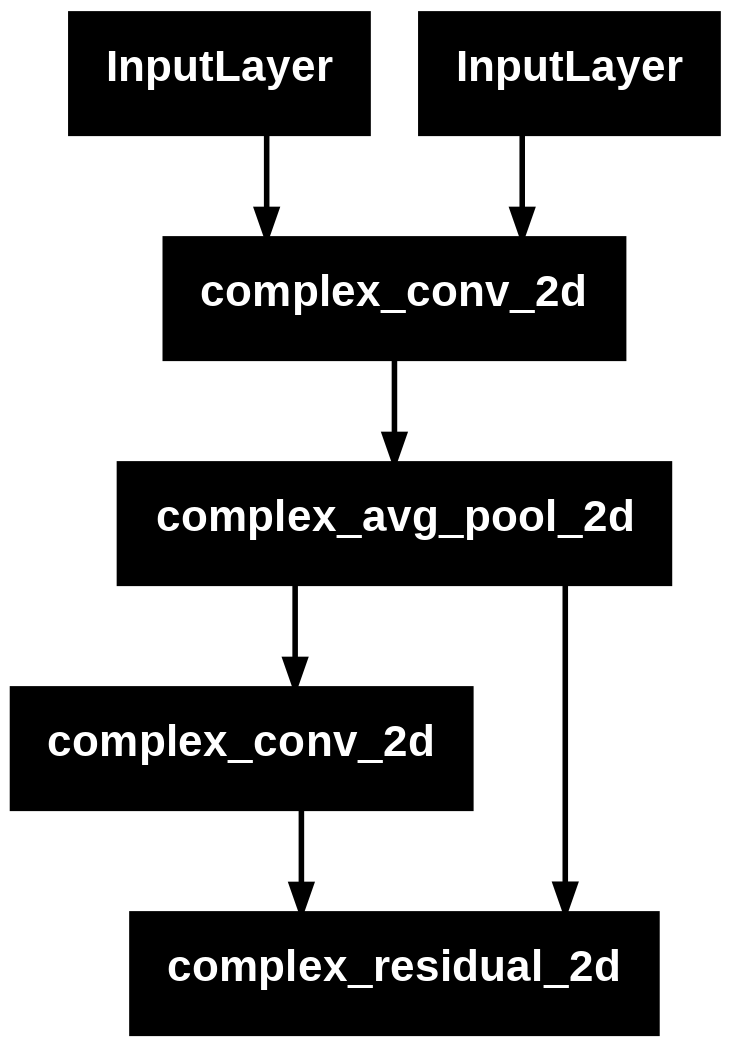
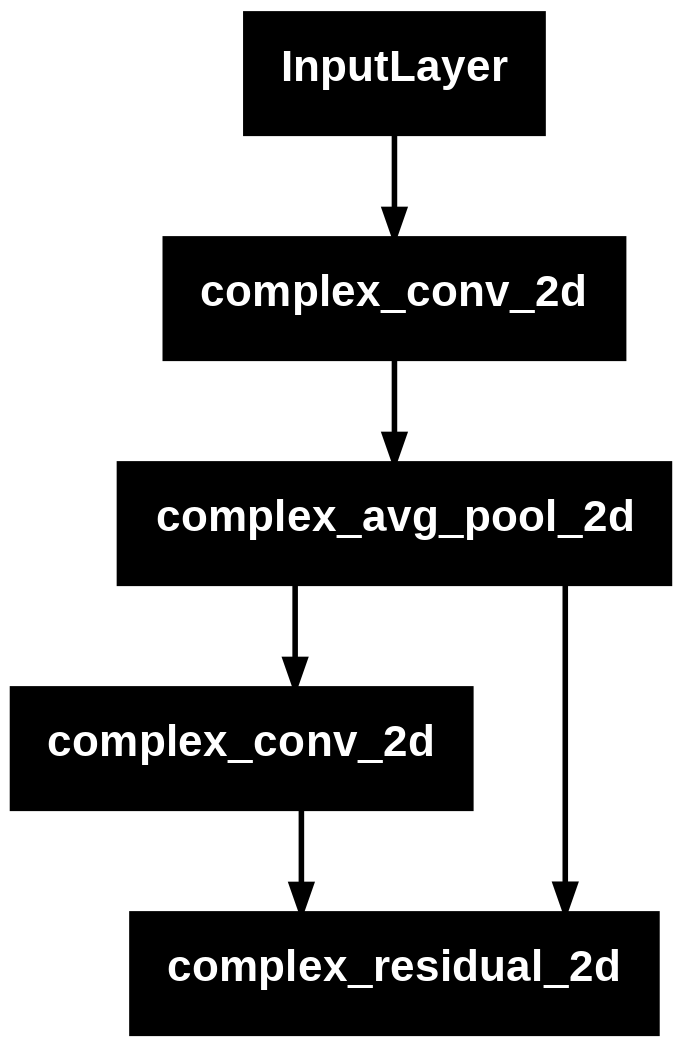
again (make_pair method added) Massive Revisions! Converting all to TensorFlow 2.16.1 supported code

diff --git a/seis_epi_modules/layers/complex_residual_2d.py b/seis_epi_modules/layers/complex_residual_2d.py
@@ -59,8 +59,8 @@ class complex_residual_2d(tf.keras.layers.Layer):
     '''
       consecutive_matmul
         * Used to weigh matrix operations from the given tuples of two matrices.
-        * On each tuple, tfl.matmul operation is conducted. 
-        * All the result of tfl.matmul are added element-wise-ly.
+        * On each tuple, tf.matmul operation is conducted. 
+        * All the result of tf.matmul are added element-wise-ly.
       receive:
         * "matrix_sets" (type: list | containing tuples of two matrices)
       return:
@@ -75,33 +75,39 @@ class complex_residual_2d(tf.keras.layers.Layer):
     return sum_matrix
 
   def build(sf, input_shape__):
-    # alpha_shape: (N, H0, W0, C0)
-    alpha_shape = input_shape__[1][0]
-    # beta_shape: (N, H1, W1, C0)
-    beta_shape = input_shape__[0][0]
+    # alpha_shape: (N, 2, H0, W0, C0)
+    alpha_shape = input_shape__[1]
+    # beta_shape: (N, 2, H1, W1, C0)
+    beta_shape = input_shape__[0]
 
     # P_shape: N x C0 x H1 x H0 (in NCHW format)
-    P_shape = (1, alpha_shape[-1], beta_shape[1], alpha_shape[1])
+    P_shape = (1, alpha_shape[-1], beta_shape[2], alpha_shape[2])
     sf.PR = sf.construct_matrix(P_shape, 'P_matrix_real')
     sf.PJ = sf.construct_matrix(P_shape, 'P_matrix_imag')
 
     # Q_shape: N x C0 x W0 x W1 (in NCHW format)
-    Q_shape = (1, alpha_shape[-1], alpha_shape[2], beta_shape[2])
+    Q_shape = (1, alpha_shape[-1], alpha_shape[3], beta_shape[3])
     sf.QR = sf.construct_matrix(Q_shape, 'Q_matrix_real')
     sf.QJ = sf.construct_matrix(Q_shape, 'Q_matrix_imag')
 
+  def make_pair(sf, a__, b__):
+    a = tf.expand_dims(a__, axis=1)
+    b = tf.expand_dims(b__, axis=1)
+    return tf.concat([a, b], axis=1)
+
   def call(sf, input__):
     # input__: (tuple:alpha, tuple:beta)
-    alphaR = sf.to_nchw(input__[1][0])
-    alphaJ = sf.to_nchw(input__[1][1])
-    betaR = input__[0][0]
-    betaJ = input__[0][1]
+    alphaR = sf.to_nchw(input__[1][:,0])
+    alphaJ = sf.to_nchw(input__[1][:,1])
+    betaR = input__[0][:,0]
+    betaJ = input__[0][:,1]
 
     u = sf.consecutive_matmul([(alphaR, sf.QR), (-1 * alphaJ, sf.QJ)])
     v = sf.consecutive_matmul([(alphaR, sf.QJ), (alphaJ, sf.QR)])
     
     PalphaQR = sf.consecutive_matmul([(sf.PR, u), (-1 * sf.PJ, v)])
     PalphaQJ = sf.consecutive_matmul([(sf.PR, v), (sf.PJ, u)])
-    PalphaQ = (sf.to_nhwc(PalphaQR), sf.to_nhwc(PalphaQJ))
-    beta = (betaR, betaJ)
-    return beta + PalphaQ
+
+    PalphaQR = sf.to_nhwc(PalphaQR)
+    PalphaQJ = sf.to_nhwc(PalphaQJ)
+    return sf.make_pair(betaR + PalphaQR, betaJ + PalphaQJ)

diff --git a/seis_epi_modules/layers/complex_conv_2d.py b/seis_epi_modules/layers/complex_conv_2d.py
@@ -1,5 +1,4 @@
 import tensorflow as tf
-import tensorflow.linalg as tfl
 
 @tf.keras.utils.register_keras_serializable(
     package="thesis-cvnn",
@@ -58,5 +57,5 @@ class complex_conv_2d(tf.keras.layers.Layer):
 
     real_conv = conv_up + conv_vq
     imag_conv = conv_uq + conv_vp
-    
+
     return sf.make_pair(real_conv, imag_conv)

diff --git a/seis_epi_modules/layers/complex_avg_pool_2d.py b/seis_epi_modules/layers/complex_avg_pool_2d.py
@@ -1,5 +1,4 @@
 import tensorflow as tf
-import tensorflow.linalg as tfl
 
 @tf.keras.utils.register_keras_serializable(
     package="thesis-cvnn",
